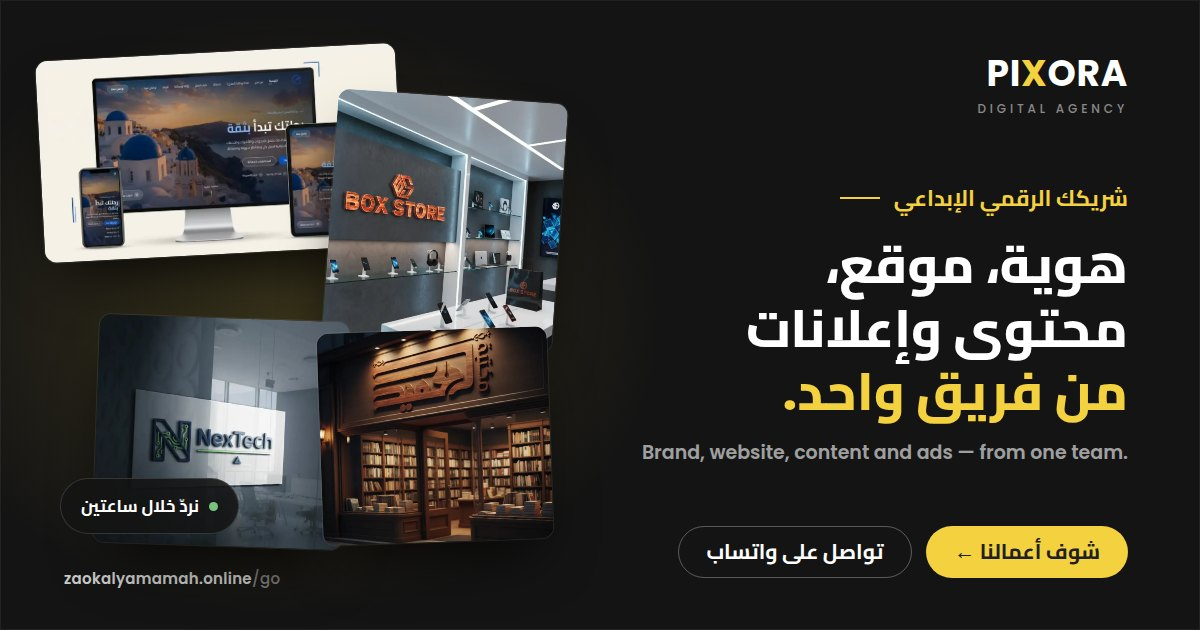
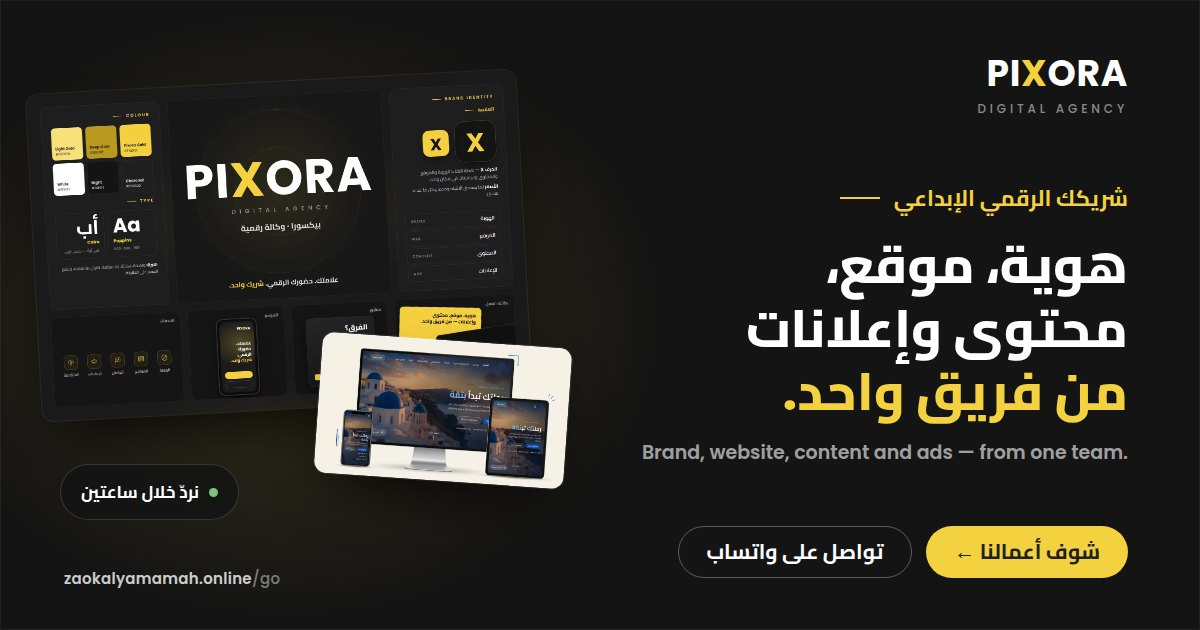
Pixora identity board in the campaign hero and its link preview
A board of Pixora's own identity (wordmark and gold X monogram, colours,
Poppins and Cairo, voice, the brand on a business card, a post, the site
and the five services), built as an HTML template in the site's fonts and
colours, rendered by render.mjs and encoded by images.py (30 KB / 74 KB).
It replaces Al Mada's identity in the /go hero ("our identity, to the
standard we build yours"), opens in the image viewer, and leads the /go
link preview. Test for the hero.

Claude-Session: https://claude.ai/code/session_01NJL9QvcoEBBfKSiRxG5s9B

Changed region(s): [[0.0308, 0.0603, 0.4933, 0.8746], [0.1233, 0.9048, 0.2158, 0.9349]]

diff --git a/tools/share-cards/board.html b/tools/share-cards/board.html
@@ -1,0 +1,151 @@
+<!doctype html><html lang="ar" dir="rtl"><head><meta charset="utf-8"><link rel="stylesheet" href="base.css"><style>
+/* The Pixora identity board (1800×1200): the studio's own brand, shown the way
+   it shows a client's. Rendered by render.mjs, encoded by tools/images.py. */
+html,body{width:1800px;height:1200px}
+body{background:#1a1a1a;font-family:Cairo,Poppins,sans-serif}
+.glow{background:radial-gradient(760px 520px at 50% 40%,rgba(244,209,63,.13),transparent 70%),radial-gradient(900px 300px at 50% 108%,rgba(244,209,63,.08),transparent 70%)}
+.sheet{position:absolute;inset:48px;display:grid;grid-template-columns:420px 1fr 440px;grid-template-rows:1fr 330px;gap:28px}
+.panel{position:relative;border:1px solid rgba(255,255,255,.08);border-radius:22px;background:rgba(32,32,32,.72);padding:34px 36px;overflow:hidden}
+.lbl{font-family:Poppins;font-weight:600;font-size:15px;letter-spacing:.28em;color:#f4d13f;text-transform:uppercase;direction:ltr;text-align:right;display:flex;align-items:center;gap:14px;justify-content:flex-end}
+.lbl::before{content:"";width:34px;height:2px;background:currentColor}
+.lbl.ar{font-family:Cairo;letter-spacing:0;font-size:18px;font-weight:700;direction:rtl;justify-content:flex-start}
+.lbl.ar::before{order:2}
+/* Centre: the lockup */
+.hero{grid-row:1;grid-column:2;display:grid;place-items:center;text-align:center;background:radial-gradient(circle at 50% 46%,rgba(244,209,63,.1),transparent 62%),#171717}
+.rings{position:absolute;inset:0;margin:auto;width:640px;height:640px;top:-40px}
+.rings circle{fill:none;stroke:rgba(244,209,63,.16)}
+.lockup{position:relative;display:grid;gap:18px;justify-items:center;margin-top:-10px}
+.word{font-family:Poppins;font-weight:700;font-size:176px;line-height:.9;letter-spacing:.02em;direction:ltr;color:#fff}
+.word b{color:#f4d13f}
+.sub{font-family:Poppins;font-weight:500;font-size:22px;letter-spacing:.62em;color:rgba(255,255,255,.55);direction:ltr;margin-right:-.62em}
+.ar-name{font-size:30px;font-weight:700;color:rgba(255,255,255,.86)}
+.ar-name span{color:#f4d13f}
+.promise{position:absolute;bottom:34px;left:0;right:0;text-align:center;font-size:25px;font-weight:700;color:rgba(255,255,255,.9)}
+.promise span{color:#f4d13f}
+/* Left: mark construction + pillars */
+.left{grid-row:1;grid-column:1;display:flex;flex-direction:column;gap:18px}
+.mark-row{display:flex;gap:22px;align-items:center;margin-top:6px}
+.mono{position:relative;width:150px;height:150px;border-radius:34px;background:#141414;border:1px solid rgba(244,209,63,.35);display:grid;place-items:center;box-shadow:0 20px 40px -18px rgba(0,0,0,.8)}
+.mono svg{width:150px;height:150px;position:absolute;inset:0}
+.mono i{font-style:normal;font-family:Poppins;font-weight:700;font-size:96px;line-height:1;color:#f4d13f;transform:translateY(4px)}
+.mono.light{background:#f4d13f;border-color:transparent}.mono.light i{color:#141414}
+.small-mono{width:96px;height:96px;border-radius:24px}.small-mono i{font-size:60px}
+.notes{display:grid;gap:12px;font-size:17px;color:rgba(255,255,255,.72);line-height:1.5}
+.notes b{color:#fff;font-weight:700}
+.pillars{margin-top:auto;display:grid;gap:8px}
+.pill{display:flex;justify-content:space-between;align-items:center;padding:9px 18px;border:1px solid rgba(255,255,255,.1);border-radius:14px;font-size:19px;font-weight:600;color:#fff}
+.pill small{font-family:Poppins;font-size:13px;letter-spacing:.14em;color:rgba(255,255,255,.45);direction:ltr}
+/* Right: colour + type */
+.right{grid-row:1;grid-column:3;display:flex;flex-direction:column;gap:22px}
+.swatches{display:grid;grid-template-columns:repeat(3,1fr);gap:12px}
+.sw{height:118px;border-radius:14px;padding:12px;display:flex;flex-direction:column;justify-content:flex-end;font-family:Poppins;direction:ltr;text-align:left;border:1px solid rgba(255,255,255,.08)}
+.sw b{font-size:14px;font-weight:600}.sw span{font-size:12px;opacity:.7}
+.type{display:grid;grid-template-columns:1fr 1fr;gap:14px}
+.face{border:1px solid rgba(255,255,255,.1);border-radius:16px;padding:16px 18px;display:grid;gap:4px}
+.face .aa{font-size:72px;line-height:1;font-weight:700;color:#fff}
+.face .aa.lat{font-family:Poppins;direction:ltr;text-align:left}
+.face .nm{font-size:16px;font-weight:700;color:#f4d13f}
+.face .wt{font-size:13px;color:rgba(255,255,255,.55);font-family:Poppins;direction:ltr;text-align:left}
+.face .wt.ar{font-family:Cairo;direction:rtl;text-align:right}
+.voice{font-size:16px;line-height:1.55;color:rgba(255,255,255,.7)}
+.voice b{color:#fff}
+/* Bottom: applications */
+.apps{grid-row:2;grid-column:1 / -1;display:grid;grid-template-columns:1.25fr 1fr 1fr 1.35fr;gap:28px;padding:0;background:none;border:0}
+.app{position:relative;border:1px solid rgba(255,255,255,.08);border-radius:22px;background:#151515;overflow:hidden;display:grid;place-items:center}
+.app .cap{position:absolute;top:16px;right:20px;font-size:15px;font-weight:700;color:rgba(255,255,255,.55)}
+/* business cards */
+.card{position:absolute;width:300px;height:172px;border-radius:14px;box-shadow:0 26px 50px -18px rgba(0,0,0,.9)}
+.card.front{background:#111;border:1px solid rgba(244,209,63,.3);transform:rotate(-6deg) translate(78px,52px);display:grid;place-items:center}
+.card.front .w{font-family:Poppins;font-weight:700;font-size:44px;color:#fff;direction:ltr}.card.front .w b{color:#f4d13f}
+.card.back{background:#f4d13f;transform:rotate(4deg) translate(-60px,-40px);display:flex;flex-direction:column;justify-content:space-between;padding:18px 20px;color:#141414}
+.card.back .t{font-size:17px;font-weight:800;line-height:1.35}
+.card.back .u{font-family:Poppins;font-size:12px;font-weight:600;direction:ltr;text-align:left;opacity:.8}
+/* social post */
+.post{width:250px;height:250px;border-radius:16px;background:linear-gradient(160deg,#262626,#141414);border:1px solid rgba(255,255,255,.1);padding:22px;display:flex;flex-direction:column;justify-content:space-between;box-shadow:0 26px 50px -18px rgba(0,0,0,.9);margin-top:24px}
+.post .h{font-size:27px;font-weight:800;line-height:1.3;color:#fff}.post .h span{color:#f4d13f}
+.post .f{display:flex;justify-content:space-between;align-items:center;font-family:Poppins;font-weight:700;font-size:15px;color:#fff;direction:ltr}.post .f b{color:#f4d13f}
+.post .f i{width:22px;height:22px;border-radius:6px;background:#f4d13f}
+/* phone */
+.phone{width:150px;height:282px;border-radius:26px;background:#0d0d0d;border:3px solid #333;padding:9px;margin-top:26px;box-shadow:0 26px 50px -18px rgba(0,0,0,.9)}
+.screen{width:100%;height:100%;border-radius:18px;background:radial-gradient(160px 120px at 60% 30%,rgba(244,209,63,.25),transparent 70%),#1b1b1b;padding:16px 12px;display:flex;flex-direction:column;gap:9px}
+.screen .b{font-family:Poppins;font-weight:700;font-size:13px;color:#fff;direction:ltr;text-align:right}.screen .b b{color:#f4d13f}
+.screen .l{font-size:15px;font-weight:800;line-height:1.35;color:#fff;margin-top:26px}.screen .l span{color:#f4d13f}
+.screen .btn{margin-top:auto;height:26px;border-radius:99px;background:#f4d13f}
+.screen .btn2{height:24px;border-radius:99px;border:1px solid rgba(255,255,255,.3)}
+/* services */
+.svc{padding:52px 26px 20px;display:grid;grid-template-columns:repeat(5,1fr);gap:8px;align-content:center;width:100%}
+.svc div{display:grid;justify-items:center;gap:10px;text-align:center;font-size:14px;font-weight:600;color:rgba(255,255,255,.8);line-height:1.3}
+.svc svg{width:52px;height:52px;padding:12px;border-radius:14px;border:1px solid rgba(244,209,63,.35);color:#f4d13f;background:rgba(244,209,63,.06)}
+</style></head><body><div class="glow"></div>
+<div class="sheet">
+
+ <div class="panel left">
+  <div class="lbl">Brand Identity</div>
+  <p class="lbl ar">العلامة</p>
+  <div class="mark-row">
+   <div class="mono"><svg viewBox="0 0 150 150"><g stroke="rgba(244,209,63,.22)" stroke-dasharray="3 5"><line x1="0" y1="75" x2="150" y2="75"/><line x1="75" y1="0" x2="75" y2="150"/><circle cx="75" cy="75" r="46" fill="none"/></g></svg><i>X</i></div>
+   <div class="mono light small-mono"><i>X</i></div>
+  </div>
+  <div class="notes">
+   <p><b>الحرف X</b> — نقطة التقاء: الهوية والموقع والمحتوى والإعلانات في مكان واحد.</p>
+   <p><b>الأصفر</b> لما يستحق الانتباه وحده؛ وكل ما عداه هادئ.</p>
+  </div>
+  <div class="pillars">
+   <div class="pill">الهوية <small>BRAND</small></div>
+   <div class="pill">الموقع <small>WEB</small></div>
+   <div class="pill">المحتوى <small>CONTENT</small></div>
+   <div class="pill">الإعلانات <small>ADS</small></div>
+  </div>
+ </div>
+
+ <div class="panel hero">
+  <svg class="rings" viewBox="0 0 640 640"><circle cx="320" cy="320" r="300"/><circle cx="320" cy="320" r="232" stroke-dasharray="4 10"/><circle cx="320" cy="320" r="160"/><circle cx="320" cy="20" r="5" fill="#f4d13f" stroke="none"/><circle cx="552" cy="320" r="4" fill="#f4d13f" stroke="none"/><circle cx="160" cy="320" r="3" fill="#f4d13f" stroke="none" opacity=".7"/></svg>
+  <div class="lockup">
+   <div class="word">PI<b>X</b>ORA</div>
+   <div class="sub">DIGITAL AGENCY</div>
+   <div class="ar-name">بيكسورا <span>·</span> وكالة رقمية</div>
+  </div>
+  <p class="promise">علامتك. حضورك الرقمي. <span>شريك واحد.</span></p>
+ </div>
+
+ <div class="panel right">
+  <div class="lbl">Colour</div>
+  <div class="swatches">
+   <div class="sw" style="background:#f4d13f;color:#141414"><b>Pixora Gold</b><span>#F4D13F</span></div>
+   <div class="sw" style="background:#b9991f;color:#141414"><b>Deep Gold</b><span>#B9991F</span></div>
+   <div class="sw" style="background:#f8e07a;color:#141414"><b>Light Gold</b><span>#F8E07A</span></div>
+   <div class="sw" style="background:#202020;color:#fff"><b>Charcoal</b><span>#202020</span></div>
+   <div class="sw" style="background:#141414;color:#fff"><b>Night</b><span>#141414</span></div>
+   <div class="sw" style="background:#ffffff;color:#141414"><b>White</b><span>#FFFFFF</span></div>
+  </div>
+  <div class="lbl">Type</div>
+  <div class="type">
+   <div class="face"><div class="aa lat">Aa</div><div class="nm" style="font-family:Poppins;direction:ltr;text-align:left">Poppins</div><div class="wt">500 · 600 · 700</div></div>
+   <div class="face"><div class="aa">أب</div><div class="nm">Cairo</div><div class="wt ar">عربي أولًا — بنفس الوزن</div></div>
+  </div>
+  <p class="voice"><b>النبرة:</b> واضحة، هادئة، بلا مبالغة. نقول ما نفعله، ونضع السعر على الطاولة.</p>
+ </div>
+
+ <div class="apps panel">
+  <div class="app"><span class="cap">بطاقة العمل</span>
+   <div class="card back"><div class="t">هوية، موقع، محتوى<br>وإعلانات — من فريق واحد.</div><div class="u">zaokalyamamah.online</div></div>
+   <div class="card front"><div class="w">PI<b>X</b>ORA</div></div>
+  </div>
+  <div class="app"><span class="cap">منشور</span>
+   <div class="post"><div class="h">الفرق؟<br><span>ستلاحظه من أول نظرة.</span></div><div class="f"><i></i><span>PI<b>X</b>ORA</span></div></div>
+  </div>
+  <div class="app"><span class="cap">الموقع</span>
+   <div class="phone"><div class="screen"><div class="b">PI<b>X</b>ORA</div><div class="l">علامتك.<br>حضورك الرقمي.<br><span>شريك واحد.</span></div><div class="btn"></div><div class="btn2"></div></div></div>
+  </div>
+  <div class="app"><span class="cap">الخدمات</span>
+   <div class="svc">
+    <div><svg viewBox="0 0 24 24" fill="none" stroke="currentColor" stroke-width="1.5"><circle cx="12" cy="12" r="9"/><path d="M8.4 15.6 15.6 8.4M13.8 7.2l3 3" stroke-linecap="round"/></svg>الهوية</div>
+    <div><svg viewBox="0 0 24 24" fill="none" stroke="currentColor" stroke-width="1.5"><rect x="3" y="5" width="18" height="14" rx="1.5"/><path d="M3 9h18"/><path d="M6 12h5v4H6zM13.5 12H18M13.5 15H18" stroke-linecap="round"/></svg>المواقع</div>
+    <div><svg viewBox="0 0 24 24" fill="none" stroke="currentColor" stroke-width="1.5"><path d="M4 4.5h16v11H9.5L4 19.5v-15z" stroke-linejoin="round"/><path d="M12 13.2 9.2 10.6a1.7 1.7 0 0 1 2.8-1.9 1.7 1.7 0 0 1 2.8 1.9L12 13.2z" stroke-linejoin="round"/></svg>التواصل</div>
+    <div><svg viewBox="0 0 24 24" fill="none" stroke="currentColor" stroke-width="1.5"><path d="M3.5 9.5v5h3l8 4.5v-14l-8 4.5h-3z" stroke-linejoin="round"/><path d="M18 9a4.2 4.2 0 0 1 0 6" stroke-linecap="round"/><path d="M7 15v4" stroke-linecap="round"/></svg>الإعلانات</div>
+    <div><svg viewBox="0 0 24 24" fill="none" stroke="currentColor" stroke-width="1.5"><circle cx="12" cy="12" r="3"/><circle cx="12" cy="12" r="8.5" stroke-dasharray="2 3"/><path d="M12 3.5v2M12 18.5v2M3.5 12h2M18.5 12h2" stroke-linecap="round"/></svg>المتكاملة</div>
+   </div>
+  </div>
+ </div>
+</div>
+</body></html>

diff --git a/overlay/go.html b/overlay/go.html
@@ -56,7 +56,7 @@
[1 lines of base64/hex data omitted]
     <link rel="apple-touch-icon" sizes="180x180" href="/assets/apple-touch-icon.png" />
     <!-- The hero image is the first thing the ad click should see. -->
-    <link rel="preload" as="image" href="/assets/al-mada-identity-tile.webp" type="image/webp" fetchpriority="high" />
+    <link rel="preload" as="image" href="/assets/pixora-board-900.webp" imagesrcset="/assets/pixora-board-900.webp 900w, /assets/pixora-board.webp 1800w" imagesizes="(min-width: 64em) 55vw, 92vw" type="image/webp" fetchpriority="high" />
 
 <!-- SHARED-STYLES:START -->
 <!-- SHARED-STYLES:END -->
@@ -374,10 +374,11 @@
           </div>
           <figure class="g-hero__visual">
             <div class="g-hero__frame">
-              <img src="/assets/al-mada-identity-tile.webp" width="900" height="600" fetchpriority="high" decoding="async"
-                alt="هوية وكالة المدى للسفر والسياحة: الشعار — طائرة داخل دائرة يرسم مسارها حرف الميم — مع الألوان والخطوط" />
+              <img src="/assets/pixora-board-900.webp" srcset="/assets/pixora-board-900.webp 900w, /assets/pixora-board.webp 1800w"
+                sizes="(min-width: 64em) 55vw, 92vw" width="900" height="600" fetchpriority="high" decoding="async"
+                alt="لوحة هوية بيكسورا: الشعار PIXORA بحرف X ذهبي، والعلامة المختصرة، والألوان الذهبية والفحمية، وخطا Poppins وCairo، وتطبيقاتها على بطاقة عمل ومنشور وموقع" />
             </div>
-            <figcaption class="g-hero__tag"><b>AL MADA</b> · هوية بصرية متكاملة</figcaption>
+            <figcaption class="g-hero__tag"><b>PIXORA</b> · هويتنا، بنفس المعيار الذي نبنيه لك</figcaption>
           </figure>
         </div>
       </section>

diff --git a/tools/share-cards/go.html b/tools/share-cards/go.html
@@ -1,19 +1,15 @@
 <!doctype html><html lang="ar" dir="rtl"><head><meta charset="utf-8"><link rel="stylesheet" href="base.css"><style>
 body{--h1:52px;--text-w:580px}
-.p1{--x:40px;--y:52px;--w:360px;--r:-3deg;--z:1}
-.p2{--x:330px;--y:96px;--w:230px;--r:4deg;--z:2}
-.p3{--x:96px;--y:318px;--w:250px;--r:2deg;--z:3}
-.p4{--x:320px;--y:330px;--w:230px;--r:-2deg;--z:4}
-.chip{left:60px;bottom:96px}
+.p1{--x:34px;--y:82px;--w:490px;--r:-3deg;--z:2}
+.p2{--x:318px;--y:340px;--w:250px;--r:4deg;--z:3}
+.chip{left:60px;bottom:110px}
 .ctas{display:flex;gap:14px}
 .pill{display:inline-flex;align-items:center;height:52px;padding:0 28px;border-radius:999px;background:#f4d13f;color:#202020;font-weight:700;font-size:21px}
 .pill--ghost{background:transparent;color:#fff;border:1.5px solid rgba(255,255,255,.3)}
 </style></head><body><div class="glow"></div>
 <div class="prints">
- <div class="print p1"><img src="../../source/assets/al-mada-website-tile.webp"></div>
- <div class="print p2"><img src="../../source/assets/work-4.webp"></div>
- <div class="print p3"><img src="../../source/assets/work-3.webp"></div>
- <div class="print p4"><img src="../../source/assets/work-5.webp"></div>
+ <div class="print p1"><img src="../../overlay/assets/pixora-board.webp"></div>
+ <div class="print p2"><img src="../../source/assets/al-mada-website-tile.webp"></div>
  <span class="chip">نردّ خلال ساعتين</span>
 </div>
 <div class="text">

diff --git a/overlay/assets/viewer.js b/overlay/assets/viewer.js
@@ -23,6 +23,8 @@
     ['main', '.c-work img, .c-chapter__work img'],
     ['.c-gallery', 'img'],
     ['.g-work', '.g-project__frame img'],
+  // The campaign page's hero: Pixora's own identity board, up close.
+  ['.g-hero__visual', 'img'],
     ['main', '.c-split__figure img'],
   ];
   const MAX = 4;

diff --git a/tools/images.py b/tools/images.py
@@ -5,6 +5,7 @@ build itself never encodes anything (the results are committed).
 
     python3 tools/images.py covers [folder]   # service covers
     python3 tools/images.py about  <folder>   # About photographs
+    python3 tools/images.py board             # the Pixora identity board
 
   covers  <folder>/svc-<id>.png|.jpg (16:10, at least 1600 wide; default
           tools/service-covers/out) → svc-<id>.webp (1600×1000) and
@@ -12,6 +13,10 @@ build itself never encodes anything (the results are committed).
   about   <folder>/about-hero.png, about-team.png, about-process.png (as
           generated, 1672 wide) → about-*.webp (1672×940) and
           about-*-640.webp / -1280.webp.
+
+  board   tools/share-cards/out/pixora-board.png (rendered by
+          tools/share-cards/render.mjs, 1800×1200) → pixora-board.webp and
+          pixora-board-900.webp (the campaign page's hero).
 
 ffmpeg does the work (FFMPEG=/path/to/ffmpeg if it is not on the PATH).
 """
@@ -47,11 +52,20 @@ def about(folder):
         print(f"overlay/assets/{name}.webp (+ -640, -1280)")
 
 
+def board():
+    src = ROOT / "tools" / "share-cards" / "out" / "pixora-board.png"
+    webp(src, "pixora-board.webp", "scale=1800:1200:flags=lanczos", 84)
+    webp(src, "pixora-board-900.webp", "scale=900:600:flags=lanczos", 84)
+    print("overlay/assets/pixora-board.webp (+ -900)")
+
+
 if __name__ == "__main__":
     kind, *rest = sys.argv[1:] or [""]
     if kind == "covers":
         covers(pathlib.Path(rest[0]) if rest else ROOT / "tools" / "service-covers" / "out")
     elif kind == "about" and rest:
         about(pathlib.Path(rest[0]))
+    elif kind == "board":
+        board()
     else:
         sys.exit(__doc__)

diff --git a/README.md b/README.md
@@ -127,6 +127,18 @@ Its three photographs (hero, the team, the process) live in
 `python3 tools/images.py about <folder>` from the source PNGs; the supplied site's
 About photos leave the upload.
 
+## Pixora identity board
+
+The campaign page's hero shows Pixora's own identity — the wordmark and its
+gold X monogram, colours, type, voice, and the brand on a business card, a
+post, the site and the five services — "our identity, to the standard we
+build yours". It is an HTML template (`tools/share-cards/board.html`, the
+site's own fonts and colours), rendered and encoded like the other images:
+
+    node tools/share-cards/render.mjs board && python3 tools/images.py board
+
+It opens in the image viewer, and the /go link preview shows it too.
+
 ## Link previews
 
 What WhatsApp, X and the rest show when a page is shared: one 1200×630 card
